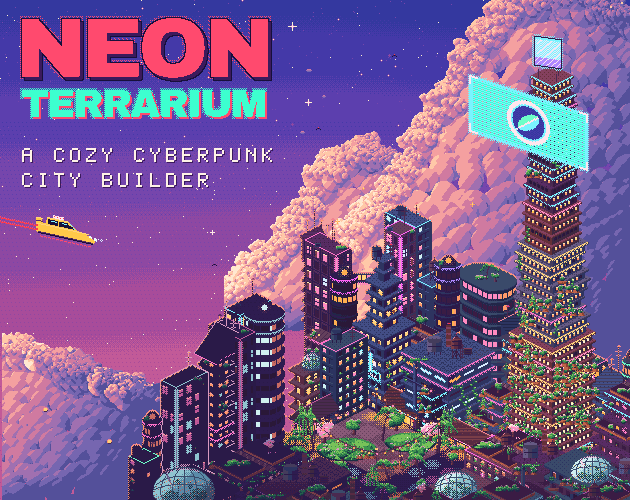
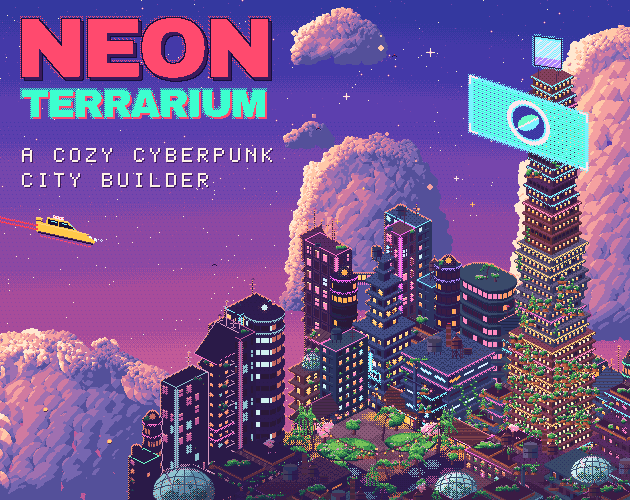
Cover art: five separate cumulus clouds with open sky between, each drifting on its own
Claude-Session: https://claude.ai/code/session_01F4MPX99podf2NwUC3T9owt

diff --git a/cover-art/cover.px.js b/cover-art/cover.px.js
@@ -126,46 +126,58 @@ const SKYBASE = fb.slice()
 const cloudLayer = () => new Uint8Array(W * H).fill(255)
 const drawInto = (buf, fn) => { const s = fb; fb = buf; fn(); fb = s }
 const bank = (o) => {
-  const { x0, x1, base, env, seed } = o
+  const { base, env, seed } = o
   const R = (k, a = 0) => ih(seed, k, a)
-  const envY = (x) => lerpPoly(env, x)
-  const top = Math.floor(Math.min(...env.map((p) => p[1]))) - 24
+  const sc = o.scale ?? 1
+  const xs = env.map((p) => p[0]), x0 = Math.min(...xs), x1 = Math.max(...xs), ytop = Math.min(...env.map((p) => p[1]))
+  const poly = [...env, [env[env.length - 1][0], base + 30], [env[0][0], base + 30]]
+  const inside = (x, y) => { let c = false; for (let i = 0, j = poly.length - 1; i < poly.length; j = i++) { const [ax, ay] = poly[i], [bx, by] = poly[j]; if ((ay > y) !== (by > y) && x < ((bx - ax) * (y - ay)) / (by - ay) + ax) c = !c } return c }
+  const segDist = (x, y) => { let m = 1e9; for (let i = 0; i + 1 < env.length; i++) { const [ax, ay] = env[i], [bx, by] = env[i + 1], dx = bx - ax, dy = by - ay, t = clamp(((x - ax) * dx + (y - ay) * dy) / (dx * dx + dy * dy || 1), 0, 1); m = Math.min(m, Math.hypot(x - ax - t * dx, y - ay - t * dy)) } return m }
   const discs = []
   const add = (x, y, r, d, warm) => discs.push({ x: Math.round(x), y: Math.round(y), r, d, warm })
-  const sp = o.sp ?? 13
-  // the body: big discs packed on a jittered grid under the skyline
-  for (let gy = top; gy < base; gy += sp * 0.8) for (let gx = x0 - 6; gx <= x1 + 6; gx += sp) {
+  const sp = (o.sp ?? 13) * sc
+  // the body: big discs packed on a jittered grid, kept inside the outline
+  for (let gy = ytop; gy < base; gy += sp * 0.8) for (let gx = x0; gx <= x1; gx += sp) {
     const x = gx + (R(1, gx * 7 + Math.round(gy)) - 0.5) * sp, y = gy + (R(2, gx * 5 + Math.round(gy)) - 0.5) * sp
-    const r = sp * (0.7 + 0.3 * R(3, gx + Math.round(gy) * 3))
-    if (y - r * 0.4 < envY(x) || x < x0 - 4 || x > x1 + 4) continue
+    if (!inside(x, y) || y > base - 2) continue
+    const r = Math.min(sp * (0.7 + 0.3 * R(3, gx + Math.round(gy) * 3)), segDist(x, y) + 3)
+    if (r < 4) continue
     add(x, y, r, 0, false)
   }
-  // scalloped edge: discs along the skyline, then children on their upper arcs, smaller and smaller
-  const spawn = (p, depth) => {
+  // the outline: scalloped discs all the way round (top and both sides), each throwing smaller billows outward
+  const spawn = (p, depth, ang) => {
     if (p.r < 3.2 || depth > 3) return
     const n = 3 + Math.floor(R(10 + depth, p.x * 3 + p.y) * 3)
     for (let k = 0; k < n; k++) {
-      const th = -Math.PI * (0.06 + 0.88 * ((k + R(11 + depth, p.x + p.y * 7 + k)) / n))
+      const th = ang + (((k + R(11 + depth, p.x + p.y * 7 + k)) / n) - 0.5) * Math.PI * 0.95
       const r = p.r * (0.42 + 0.26 * R(12 + depth, p.x * 5 + p.y + k))
       const c = { x: Math.round(p.x + Math.cos(th) * p.r * 0.86), y: Math.round(p.y + Math.sin(th) * p.r * 0.86), r, d: depth + 1, warm: p.warm }
-      discs.push(c); spawn(c, depth + 1)
+      discs.push(c); spawn(c, depth + 1, ang)
     }
   }
-  const step = 8
-  for (let x = x0; x <= x1; x += step * (0.7 + 0.6 * R(20, x))) {
-    const r = 8 + 8 * R(21, Math.round(x))
-    const p = { x: Math.round(x), y: Math.round(envY(x) + r * 0.55), r, d: 1, warm: R(22, Math.round(x)) < (o.warmP ?? 1) }
-    if (p.y > base - 4) continue
-    discs.push(p); spawn(p, 1)
+  for (let i = 0; i + 1 < env.length; i++) {
+    const [ax, ay] = env[i], [bx, by] = env[i + 1], len = Math.hypot(bx - ax, by - ay)
+    if (len < 1) continue
+    let nx = (by - ay) / len, ny = -(bx - ax) / len
+    const mx = (ax + bx) / 2, my = (ay + by) / 2
+    if (inside(mx + nx * 3, my + ny * 3)) { nx = -nx; ny = -ny }
+    for (let t = 0; t < len; t += (6 + 5 * R(20, i * 31 + Math.round(t))) * sc) {
+      const r = (7 + 8 * R(21, i * 17 + Math.round(t))) * sc
+      const px = ax + ((bx - ax) * t) / len, py = ay + ((by - ay) * t) / len
+      const p = { x: Math.round(px - nx * r * 0.55), y: Math.round(py - ny * r * 0.55), r, d: 1, warm: R(22, i * 13 + Math.round(t)) < (o.warmP ?? 1) }
+      if (p.y > base - 6) continue
+      discs.push(p); spawn(p, 1, Math.atan2(ny, nx))
+    }
   }
-  // detached fragments near the lit tops
+  for (const [x, y, r] of o.peaks ?? []) { const p = { x, y, r, d: 1, warm: true }; discs.push(p); spawn(p, 1, -Math.PI / 2) }
   for (let i = 0; i < (o.frag ?? 8); i++) {
-    const x = x0 + R(30, i) * (x1 - x0), r = 1.2 + 1.8 * R(31, i)
-    discs.push({ x: Math.round(x), y: Math.round(envY(x) - 5 - R(32, i) * 14), r, d: 5, warm: true, frag: true })
+    const k = Math.floor(R(30, i) * (env.length - 1)), t = R(33, i)
+    const x = env[k][0] + (env[k + 1][0] - env[k][0]) * t, y = env[k][1] + (env[k + 1][1] - env[k][1]) * t
+    discs.push({ x: Math.round(x + (R(34, i) - 0.5) * 16), y: Math.round(y - 6 - R(32, i) * 12), r: 1.2 + 1.8 * R(31, i), d: 5, warm: true, frag: true })
   }
-  const bx0 = x0 - 8, bx1 = x1 + 8, bw = bx1 - bx0 + 1, bh = base + 2 - top + 1
+  const top = Math.floor(ytop) - Math.ceil(30 * sc) - 20
+  const bx0 = Math.floor(x0) - 24, bx1 = Math.ceil(x1) + 24, bw = bx1 - bx0 + 1, bh = base + 2 - top + 1
   const own = new Int32Array(bw * bh).fill(-1)
-  // paint order: body, then edge discs, then children by depth (so smaller billows end up in front)
   const order = discs.map((d, i) => i).sort((p, q) => discs[p].d - discs[q].d || discs[p].y - discs[q].y)
   const rb = (x) => base + ((x >> 2) % 3 === 0 ? -1 : 0)
   order.forEach((di, rank) => {
@@ -179,24 +191,22 @@ const bank = (o) => {
   })
   const at = (x, y) => (x < bx0 || x > bx1 || y < top || y >= top + bh ? -1 : own[(y - top) * bw + (x - bx0)])
   const tone = new Int8Array(bw * bh).fill(-1)
-  const hw = (x1 - x0) / 2, cxm = (x0 + x1) / 2, ytop = Math.min(...env.map((p) => p[1])), hh = base - ytop
+  const hh = Math.max(20, base - ytop), bfade = clamp(hh * 0.35, 12, 34), wd = Math.max(20, x1 - x0)
   for (let y = top; y < top + bh; y++) for (let x = bx0; x <= bx1; x++) {
     const k = at(x, y); if (k < 0) continue
     const d = discs[k]
     const nx = (x + 0.5 - d.x) / d.r, ny = (y + 0.5 - d.y) / d.r
     const l = -0.78 * nx - 0.68 * ny
-    const u = (x - x0) / (x1 - x0), v = (y - ytop) / hh
+    const u = (x - x0) / wd, v = (y - ytop) / hh
     let s = (o.lift ?? 1.4) - 1.95 * u - 0.85 * v + 0.46 * l * (d.d >= 1 ? 1.1 : 0.8) - (o.shade ?? 0)
     if (d.warm && !d.frag) s += o.warmLift ?? 0
-    // tucked under a billow in front: a shadow
     for (const [ax, ay] of [[0, -1], [-1, -1], [0, -2], [-1, -2], [-2, -1], [1, -2]]) { const kk = at(x + ax, y + ay); if (kk >= 0 && discs[kk].rank > d.rank) { s -= 0.32; break } }
-    s -= 0.9 * clamp((y - (base - 34)) / 34, 0, 1)
-    if (d.frag) s = Math.max(s, 0.8)
+    s -= 0.9 * clamp((y - (base - bfade)) / bfade, 0, 1)
+    if (d.frag) s = Math.max(s, 0.8 - (o.shade ?? 0) * 0.6)
     const th = [0.95, 0.62, 0.3, 0.0, -0.3, -0.6]
     let t = 6; for (let j = 0; j < 6; j++) if (s > th[j]) { t = j; break }
     tone[(y - top) * bw + (x - bx0)] = t
   }
-  // clean up: a pixel that most of its neighbours disagree with joins them, so every tone is a solid cluster
   for (let pass = 0; pass < 2; pass++) {
     const nt = tone.slice()
     for (let y = top + 1; y < top + bh - 1; y++) for (let x = bx0 + 1; x < bx1; x++) {
@@ -210,24 +220,27 @@ const bank = (o) => {
   }
   for (let y = top; y < top + bh; y++) for (let x = bx0; x <= bx1; x++) { const t = tone[(y - top) * bw + (x - bx0)]; if (t >= 0) put(x, y, CRAMP[t]) }
 }
-const LAYERS = { back: cloudLayer(), mid: cloudLayer(), front: cloudLayer() }
-// a smaller bank behind the middle of the city
-drawInto(LAYERS.back, () => bank({ x0: 232, x1: 452, base: 330, env: [[232, 300], [262, 262], [300, 222], [330, 168], [362, 150], [398, 164], [425, 205], [452, 270]], seed: 41, sp: 12, frag: 6 }))
-// the hero cloud: a huge tower behind the city on the right, up behind the hero tower and the billboard
-drawInto(LAYERS.mid, () => bank({ x0: 318, x1: 650, base: 380, env: [[318, 300], [350, 240], [392, 190], [430, 120], [470, 52], [510, 6], [556, -6], [600, 8], [650, 30]], seed: 42, sp: 15, frag: 12 }))
-// a low, cool bank along the bottom left, with a few warm lit tops
-drawInto(LAYERS.front, () => bank({ x0: -8, x1: 262, base: 508, env: [[-8, 346], [30, 352], [70, 368], [120, 388], [180, 410], [230, 438], [262, 462]], seed: 43, sp: 13, shade: 0.55, lift: 1.1, warmP: 0.3, warmLift: 0.8, frag: 5 }))
-// two or three small, calm fragments in the clear sky, well away from the letters
-drawInto(LAYERS.back, () => { for (const [x, y, w] of [[306, 70, 6], [322, 96, 4], [300, 132, 5]]) { hlineK(x, y, w, "b"); hlineK(x + 1, y - 1, w - 2, "a"); hlineK(x + 1, y + 1, w - 2, "c") } })
+// five separate clouds, each its own layer so each drifts on its own; [buffer, amplitude, phase]
+const CLOUDS = []
+const cloudAt = (amp, ph, o) => { const buf = cloudLayer(); drawInto(buf, () => bank(o)); CLOUDS.push([buf, amp, ph]) }
+// E: a small, faint fragment between B and the title, clear of the tagline
+cloudAt(1.2, 5.3, { base: 148, env: [[292, 148], [294, 140], [302, 132], [314, 128], [326, 132], [334, 142], [336, 148]], seed: 55, scale: 0.55, shade: 0.85, frag: 2 })
+// C: a small, high cloud near the top centre
+cloudAt(1.8, 3.0, { base: 64, env: [[298, 64], [298, 52], [306, 38], [322, 24], [342, 18], [362, 26], [376, 42], [384, 64]], seed: 56, scale: 0.7, shade: 0.2, frag: 3 })
+// B: a medium cloud behind the middle of the city
+cloudAt(1.0, 1.8, { base: 310, env: [[296, 310], [298, 262], [306, 214], [322, 176], [346, 154], [376, 148], [404, 160], [424, 190], [434, 236], [434, 310]], seed: 57, sp: 12, shade: 0.4, frag: 5 })
+// A: the tall tower behind and right of the hero tower, cropped by the right edge
+cloudAt(1.4, 0.5, { base: 340, env: [[528, 340], [526, 262], [530, 196], [544, 136], [562, 88], [586, 54], [614, 40], [646, 46], [676, 78], [690, 130], [694, 340]], seed: 58, sp: 14, frag: 10 })
+// D: the low cool bank at the bottom left, bumpy, with two warm billows poking up
+cloudAt(1.6, 4.2, { base: 508, env: [[-10, 508], [-10, 372], [6, 360], [20, 348], [38, 356], [54, 344], [72, 352], [90, 366], [108, 356], [128, 372], [152, 384], [178, 396], [206, 412], [234, 432], [262, 458], [264, 508]], seed: 59, sp: 13, shade: 0.55, lift: 1.1, warmP: 0.25, warmLift: 0.8, frag: 4, peaks: [[34, 345, 10], [108, 352, 9]] })
 const composeSky = (f, out) => {
   const t = (2 * Math.PI * f) / FRAMES
-  const dxs = [Math.round(1.2 * Math.sin(t)), Math.round(1.7 * Math.sin(t + 1)), Math.round(2.2 * Math.sin(t + 2))]
-  const Ls = [LAYERS.back, LAYERS.mid, LAYERS.front]
+  const dxs = CLOUDS.map(([, amp, ph]) => Math.round(amp * Math.sin(t + ph)))
   for (let y = 0; y < H; y++) for (let x = 0; x < W; x++) {
     const i = y * W + x
     if (CITY[i]) continue
     let v = SKYBASE[i]
-    for (let l = 0; l < 3; l++) { const sx = x - dxs[l]; if (sx >= 0 && sx < W) { const c = Ls[l][y * W + sx]; if (c !== 255) v = c } }
+    for (let l = 0; l < CLOUDS.length; l++) { const sx = x - dxs[l]; if (sx >= 0 && sx < W) { const c = CLOUDS[l][0][y * W + sx]; if (c !== 255) v = c } }
     out[i] = v
   }
 }
@@ -1972,7 +1985,7 @@ const scanlines = () => {
 
 const DRONES = [[318, 128, 12, 3, 0, "x"], [205, 262, 10, 2, 5, "n"], [405, 52, 14, 3, 9, "x"]]
 const LANTERNS = [[278, 268, 3], [335, 226, 17], [420, 218, 31], [470, 206, 9], [365, 200, 40]]
-const SPARKLES = [[292, 26, 3], [308, 102, 2], [212, 232, 2]]
+const SPARKLES = [[430, 52, 3], [346, 96, 2], [456, 178, 2]]
 const drawLife = (f) => {
   const t = (2 * Math.PI * f) / FRAMES
   // four-point sparkle stars that slowly swell and shrink
